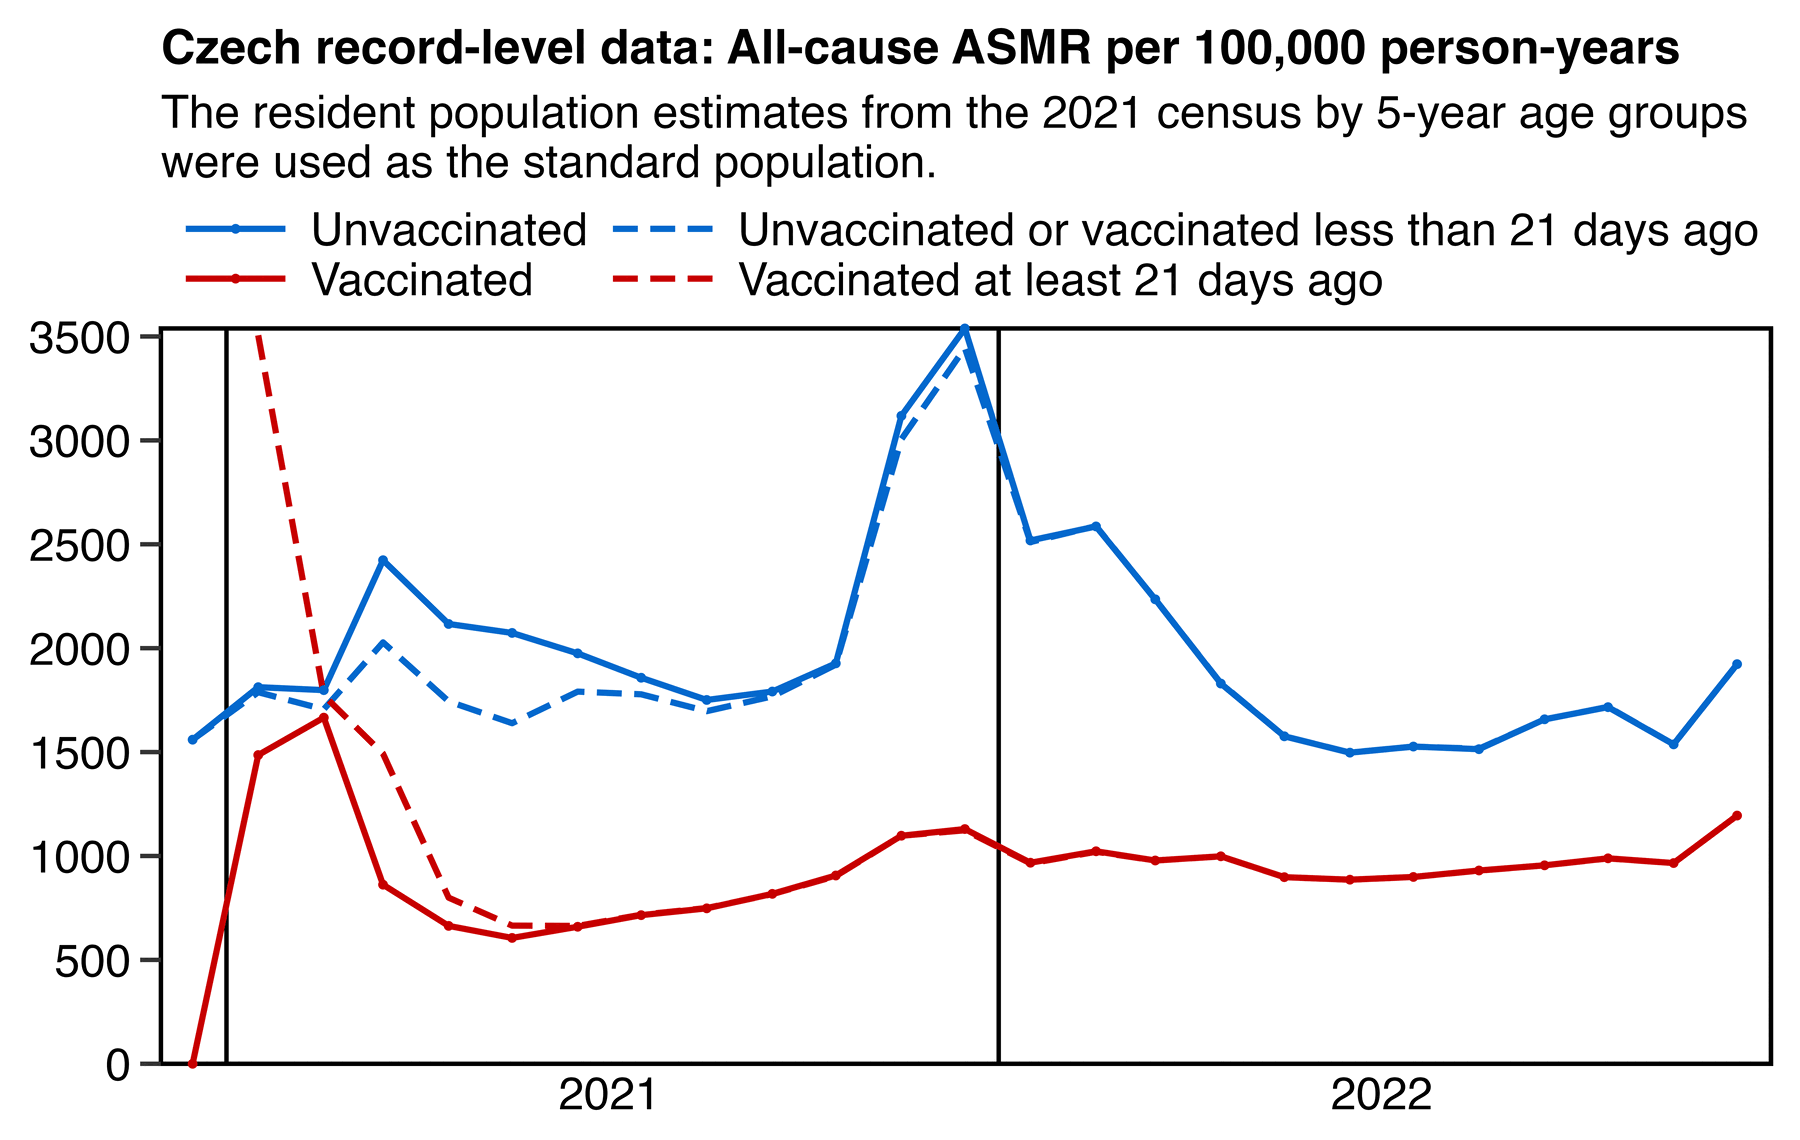
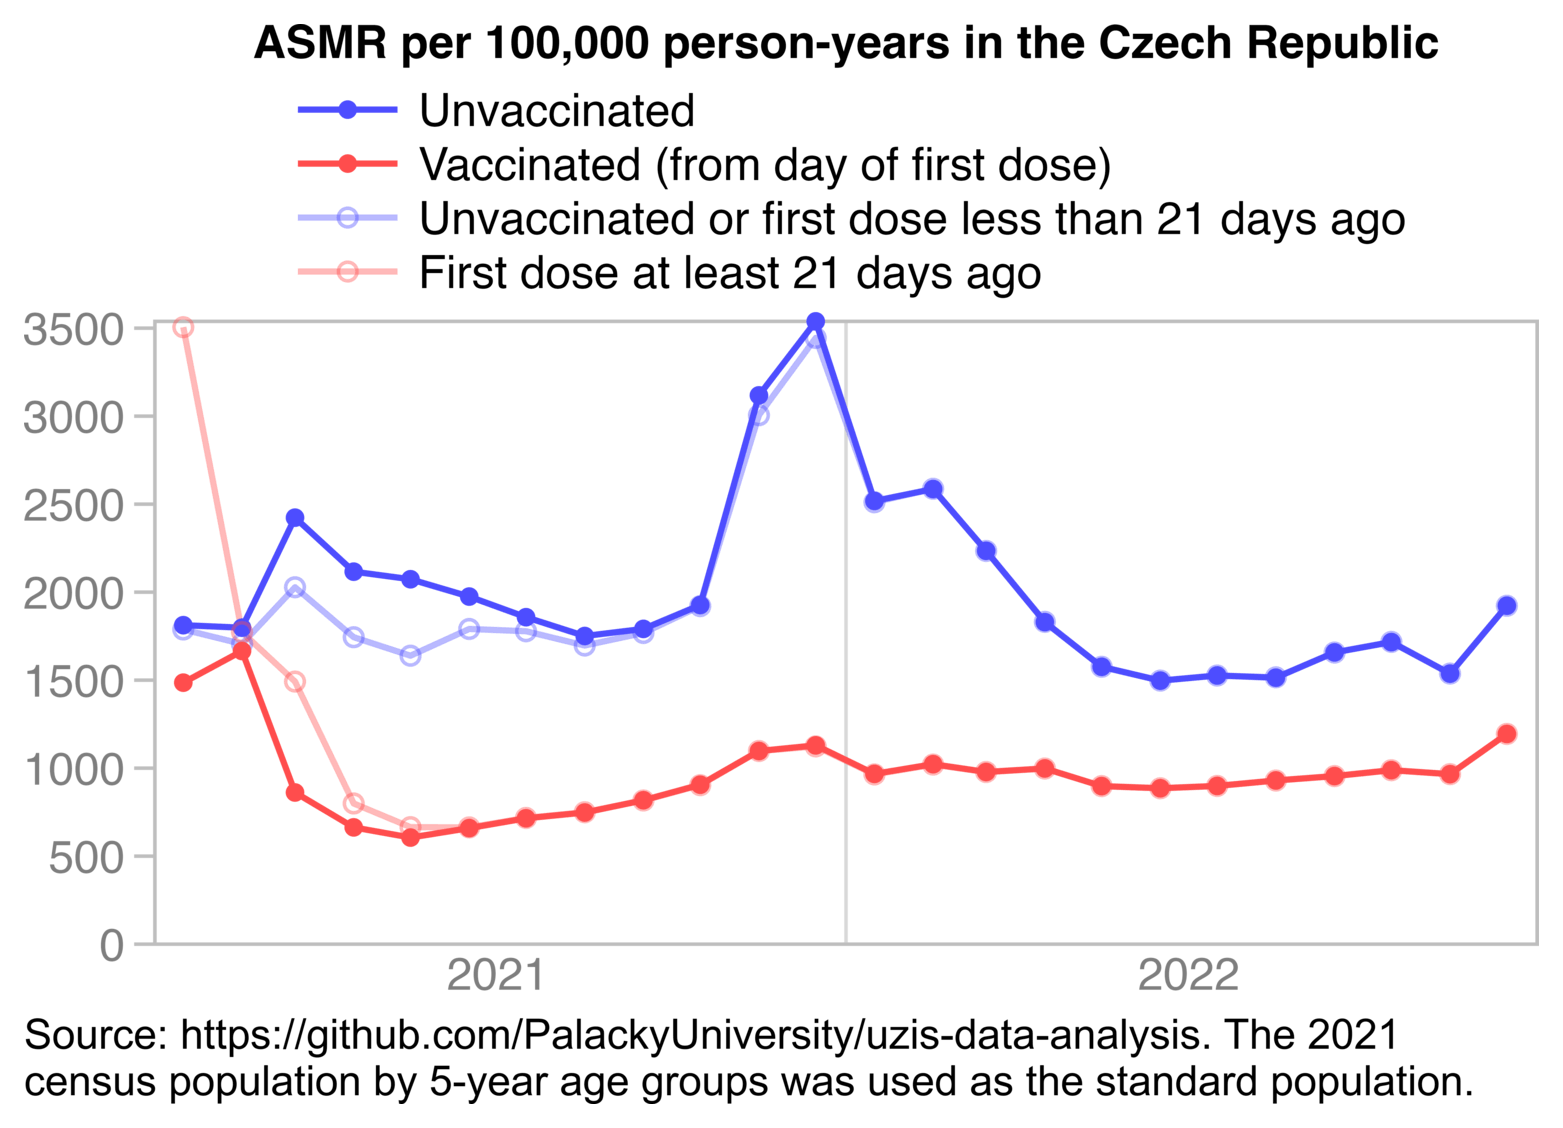
a

diff --git a/czech4.html b/czech4.html
@@ -142,7 +142,7 @@ body>.toc ul{width:100%;box-sizing:border-box}
   -webkit-touch-callout:none}
 </style>
 <title>Czech individual-level mortality data by vaccination status (part 4)</title>
-<h1 id=top>Czech individual-level mortality data by vaccination status (part 4) - <a href=index.html>sars2.net</a></h1><div class=dates>First published 2024-08-08 UTC, last modified 2026-06-08 UTC</div><p>Other parts: <a href=czech.html>czech.<wbr>html</a>, <a href=czech2.html>czech2.<wbr>html</a>, <a href=czech3.html>czech3.<wbr>html</a>. The files about the Rootclaim debate include additional analysis of the Czech data: <a href=rootclaim3.html>rootclaim3.<wbr>html</a>, <a href=rootclaim4.html>rootclaim4.<wbr>html</a>, <a href=rootclaim5.html>rootclaim5.<wbr>html</a>.</p>
+<h1 id=top>Czech individual-level mortality data by vaccination status (part 4) - <a href=index.html>sars2.net</a></h1><div class=dates>First published 2024-08-08 UTC, last modified 2026-11-27 UTC</div><p>Other parts: <a href=czech.html>czech.<wbr>html</a>, <a href=czech2.html>czech2.<wbr>html</a>, <a href=czech3.html>czech3.<wbr>html</a>. The files about the Rootclaim debate include additional analysis of the Czech data: <a href=rootclaim3.html>rootclaim3.<wbr>html</a>, <a href=rootclaim4.html>rootclaim4.<wbr>html</a>, <a href=rootclaim5.html>rootclaim5.<wbr>html</a>.</p>
 <h2><a href=#Contents id=Contents>Contents</a></h2>
 <ul class=toc>
 <li><a href="#Moderna_Pfizer_ratio_by_vaccination_quarter_and_age_group">Moderna-Pfizer ratio by vaccination quarter and age group</a></li>
@@ -1016,73 +1016,68 @@ o[<wbr>order(-<wbr>Pfizer_<wbr>N)][,<wbr>c(<wbr>1,<wbr>2,<wbr>4,<wbr>6,<wbr>3,<w
 <p>In February 2024 the Dutch Central Bureau of Statistics published a dataset for COVID and non-COVID ASMR by vaccination status: <a href=https://www.cbs.nl/nl-nl/longread/rapportages/2024/covid-vaccinatiestatus-en-sterfte/3-resultaten>https://<wbr>www.<wbr>cbs.<wbr>nl/<wbr>nl-<wbr>nl/<wbr>longread/<wbr>rapportages/<wbr>2024/<wbr>covid-<wbr>vaccinatiestatus-<wbr>en-<wbr>sterfte/<wbr>3-<wbr>resultaten</a>. It included one set of data where people were classified as vaccinated immediately after the first dose, and another set of data where people were generally only classified as vaccinated 2 weeks after the second dose <span class="quote">(or 4 weeks after the first dose in the case of vaccine brands like Johnson &amp; Johnson which had only one primary course dose)</span>.</p>
 <p>The classification delay reduced unvaccinated ASMR during the main rollout of the primary course doses from March to July 2021, so it resulted in a big advantage to unvaccinated people. In January and February 2021 the classification delay gave an advantage to vaccinated people because then there was a delay before the vulnerable groups of people were priorized during early rollout were counted as vaccinated, even though there were so few people who had been vaccinated during the first two months of 2021 that they don't have much impact on the total ASMR of vaccinated people: <span class="quote">[<a href=statistic.html#Comparison_of_fully_vaccinated_and_vaccinated_ASMR>statistic.<wbr>html#<wbr>Comparison_<wbr>of_<wbr>fully_<wbr>vaccinated_<wbr>and_<wbr>vaccinated_<wbr>ASMR</a>]</span></p>
 <div>
-<img src=i/czech-cheap-1.webp width=700>
+<img src=i/czech-cheap-1.webp width=640>
 </div>
-<p>Similarly in the Czech record-level data when I classified people as unvaccinated until 3 weeks from the first dose, it gave an advantage to unvaccinated people because it reduced the ASMR of unvaccinated people and it increased the ASMR of vaccinated people:</p>
+<p>Similarly in the Czech record-level data when I classified people as unvaccinated until 3 weeks from the first dose, the classification worked in the favor of unvaccinated people, because it reduced the ASMR of unvaccinated people and increased the ASMR of vaccinated people:</p>
 <div>
-<img src=i/czech-cheap-2.webp width=600>
+<img src=i/czech-cheap-2.webp width=530>
 </div>
 <div class="spoiler">
 <button>
 Show code
 </button>
-<pre>library(<wbr>data.<wbr>table);<wbr>library(<wbr>ggplot2)<wbr>
+<pre>b=fread(<wbr>&quot;<wbr>https://<wbr>sars2.<wbr>net/<wbr>f/<wbr>czbucketskeep.<wbr>csv.<wbr>gz&quot;)[<wbr>dose&lt;<wbr>=1]<wbr>
+std=fread(<wbr>&quot;<wbr>https://<wbr>sars2.<wbr>net/<wbr>f/<wbr>czcensus2021pop.<wbr>csv&quot;)[,.(<wbr>std=sum(<wbr>pop)),.(<wbr>age=pmin(<wbr>age,<wbr>95)%/%<wbr>5*<wbr>5)][,<wbr>std:<wbr>=std/<wbr>sum(<wbr>std)]<wbr>
 
-b=fread(<wbr>&quot;<wbr>http://<wbr>sars2.<wbr>net/<wbr>f/<wbr>czbucketskeep.<wbr>csv.<wbr>gz&quot;)[<wbr>dose&lt;<wbr>=1]<wbr>
-std=fread(<wbr>&quot;<wbr>http://<wbr>sars2.<wbr>net/<wbr>f/<wbr>czcensus2021pop.<wbr>csv&quot;)[,.(<wbr>std=sum(<wbr>pop)),.(<wbr>age=pmin(<wbr>age,<wbr>95)%/%<wbr>5*<wbr>5)][,<wbr>std:<wbr>=std/<wbr>sum(<wbr>std)]<wbr>
-
-p=copy(<wbr>b)[,<wbr>dose:<wbr>=ifelse(<wbr>dose==1,<wbr>&quot;<wbr>Vaccinated&quot;,<wbr>&quot;<wbr>Unvaccinated&quot;)]<wbr>
-p=rbind(<wbr>p,<wbr>copy(<wbr>b)[<wbr>week&lt;<wbr>3,<wbr>dose:<wbr>=0][,<wbr>dose:<wbr>=ifelse(<wbr>dose==1,<wbr>&quot;<wbr>Vaccinated at least 21 days ago&quot;,<wbr>&quot;<wbr>Unvaccinated or vaccinated less than 21 days ago&quot;)])<wbr>
+p=copy(<wbr>b)[,<wbr>dose:<wbr>=ifelse(<wbr>dose==1,<wbr>&quot;<wbr>Vaccinated (from day of first dose)<wbr>&quot;,<wbr>&quot;<wbr>Unvaccinated&quot;)]<wbr>
+p=rbind(<wbr>p,<wbr>copy(<wbr>b)[<wbr>week&lt;<wbr>3,<wbr>dose:<wbr>=0][,<wbr>dose:<wbr>=ifelse(<wbr>dose==1,<wbr>&quot;<wbr>First dose at least 21 days ago&quot;,<wbr>&quot;<wbr>Unvaccinated or first dose less than 21 days ago&quot;)])<wbr>
 
 p=p[,.(<wbr>cmr=sum(<wbr>dead)/<wbr>sum(<wbr>alive)*<wbr>365e5),.(<wbr>dose,<wbr>age=pmin(<wbr>age,<wbr>95)%/%<wbr>5*<wbr>5,<wbr>month)]<wbr>
 p=merge(<wbr>std,<wbr>p)[,.(<wbr>asmr=sum(<wbr>cmr*<wbr>std)),.(<wbr>dose,<wbr>month)]<wbr>
 p[,<wbr>dose:<wbr>=factor(<wbr>dose,<wbr>unique(<wbr>dose))]<wbr>
 
 p[,<wbr>month:<wbr>=as.<wbr>Date(<wbr>paste0(<wbr>month,<wbr>&quot;-<wbr>1&quot;))]<wbr>
-xstart=as.<wbr>Date(<wbr>&quot;<wbr>2020-<wbr>12-<wbr>1&quot;);<wbr>xend=as.<wbr>Date(<wbr>&quot;<wbr>2023-<wbr>1-<wbr>1&quot;)<wbr>
+xstart=as.<wbr>Date(<wbr>&quot;<wbr>2021-<wbr>1-<wbr>1&quot;);<wbr>xend=as.<wbr>Date(<wbr>&quot;<wbr>2023-<wbr>1-<wbr>1&quot;)<wbr>
 p=p[<wbr>month&gt;<wbr>=xstart&amp;<wbr>month&lt;<wbr>=xend]<wbr>
 
 xbreak=seq(<wbr>as.<wbr>Date(<wbr>&quot;<wbr>2021-<wbr>7-<wbr>1&quot;),<wbr>xend,<wbr>&quot;<wbr>year&quot;);<wbr>xlab=year(<wbr>xbreak)<wbr>
 ystep=500;<wbr>ystart=0;<wbr>yend=max(<wbr>p$<wbr>asmr,<wbr>na.<wbr>rm=T);<wbr>ybreak=seq(<wbr>ystart,<wbr>yend,<wbr>ystep)<wbr>
 
 ggplot(<wbr>p,<wbr>aes(<wbr>x=month+<wbr>15,<wbr>y=asmr))+<wbr>
-geom_<wbr>vline(<wbr>xintercept=seq(<wbr>as.<wbr>Date(<wbr>&quot;<wbr>2021-<wbr>1-<wbr>1&quot;),<wbr>as.<wbr>Date(<wbr>&quot;<wbr>2023-<wbr>1-<wbr>1&quot;),<wbr>&quot;<wbr>year&quot;),<wbr>linewidth=.<wbr>5)+<wbr>
-geom_<wbr>vline(<wbr>xintercept=c(<wbr>xstart,<wbr>xend),<wbr>linewidth=.<wbr>5,<wbr>lineend=&quot;<wbr>square&quot;)+<wbr>
-geom_<wbr>hline(<wbr>yintercept=c(<wbr>ystart,<wbr>yend),<wbr>linewidth=.<wbr>5,<wbr>lineend=&quot;<wbr>square&quot;)+<wbr>
-geom_<wbr>line(<wbr>aes(<wbr>color=dose,<wbr>linetype=dose),<wbr>linewidth=.<wbr>7)+<wbr>
-geom_<wbr>point(<wbr>aes(<wbr>color=dose,<wbr>alpha=dose),<wbr>stroke=0,<wbr>size=1.<wbr>1)+<wbr>
-labs(<wbr>x=NULL,<wbr>y=NULL,<wbr>title=&quot;<wbr>Czech record-<wbr>level data:<wbr> All-<wbr>cause ASMR per 100,<wbr>000 person-<wbr>years&quot;,<wbr>subtitle=&quot;<wbr>The resident population estimates from the 2021 census by 5-<wbr>year age groups were used as the standard population.<wbr>&quot;|<wbr>&gt;<wbr>stringr::<wbr>str_<wbr>wrap(<wbr>78))+<wbr>
+geom_<wbr>vline(<wbr>xintercept=seq(<wbr>as.<wbr>Date(<wbr>&quot;<wbr>2021-<wbr>1-<wbr>1&quot;),<wbr>as.<wbr>Date(<wbr>&quot;<wbr>2023-<wbr>1-<wbr>1&quot;),<wbr>&quot;<wbr>year&quot;),<wbr>linewidth=.<wbr>4,<wbr>color=&quot;<wbr>gray85&quot;)+<wbr>
+annotate(<wbr>&quot;<wbr>rect&quot;,<wbr>xmin=xstart,<wbr>xmax=xend,<wbr>ymin=ystart,<wbr>ymax=yend,<wbr>linewidth=.<wbr>4,<wbr>lineend=&quot;<wbr>square&quot;,<wbr>linejoin=&quot;<wbr>mitre&quot;,<wbr>fill=NA,<wbr>color=&quot;<wbr>gray75&quot;)+<wbr>
+geom_<wbr>line(<wbr>aes(<wbr>color=dose,<wbr>alpha=dose),<wbr>linewidth=.<wbr>7)+<wbr>
+geom_<wbr>point(<wbr>aes(<wbr>color=dose,<wbr>alpha=dose,<wbr>shape=dose),<wbr>stroke=.<wbr>6,<wbr>size=1.<wbr>7)+<wbr>
+labs(<wbr>x=NULL,<wbr>y=NULL,<wbr>title=&quot;<wbr>ASMR per 100,<wbr>000 person-<wbr>years in the Czech Republic&quot;)+<wbr>
 scale_<wbr>x_<wbr>date(<wbr>limits=c(<wbr>xstart,<wbr>xend),<wbr>breaks=xbreak,<wbr>labels=xlab)+<wbr>
 scale_<wbr>y_<wbr>continuous(<wbr>limits=c(<wbr>ystart,<wbr>yend),<wbr>breaks=ybreak)+<wbr>
-scale_<wbr>color_<wbr>manual(<wbr>values=hsv(<wbr>c(<wbr>21,<wbr>0,<wbr>21,<wbr>0)/<wbr>36,<wbr>1,.<wbr>8))+<wbr>
-scale_<wbr>linetype_<wbr>manual(<wbr>values=c(<wbr>&quot;<wbr>solid&quot;,<wbr>&quot;<wbr>solid&quot;,<wbr>&quot;<wbr>42&quot;,<wbr>&quot;<wbr>42&quot;))+<wbr>
-scale_<wbr>alpha_<wbr>manual(<wbr>values=c(<wbr>1,<wbr>1,<wbr>0,<wbr>0))+<wbr>
+scale_<wbr>color_<wbr>manual(<wbr>values=hsv(<wbr>c(<wbr>2,<wbr>0,<wbr>2,<wbr>0)/<wbr>3,.<wbr>7,<wbr>1))+<wbr>
+scale_<wbr>shape_<wbr>manual(<wbr>values=c(<wbr>16,<wbr>16,<wbr>1,<wbr>1))+<wbr>
+scale_<wbr>alpha_<wbr>manual(<wbr>values=c(<wbr>1,<wbr>1,.<wbr>4,.<wbr>4))+<wbr>
 coord_<wbr>cartesian(<wbr>clip=&quot;<wbr>off&quot;,<wbr>expand=F)+<wbr>
-guides(<wbr>color=guide_<wbr>legend(<wbr>ncol=2,<wbr>byrow=F))+<wbr>
-theme(<wbr>axis.<wbr>text=element_<wbr>text(<wbr>size=11,<wbr>color=&quot;<wbr>black&quot;),<wbr>
+guides(<wbr>color=guide_<wbr>legend(<wbr>ncol=1,<wbr>byrow=F))+<wbr>
+theme(<wbr>axis.<wbr>text=element_<wbr>text(<wbr>size=11,<wbr>color=&quot;<wbr>gray50&quot;),<wbr>
   axis.<wbr>text.<wbr>x=element_<wbr>text(<wbr>margin=margin(<wbr>3)),<wbr>
-  axis.<wbr>ticks=element_<wbr>line(<wbr>linewidth=.<wbr>5),<wbr>
+  axis.<wbr>ticks=element_<wbr>line(<wbr>linewidth=.<wbr>4,<wbr>color=&quot;<wbr>gray75&quot;),<wbr>
   axis.<wbr>ticks.<wbr>length=unit(<wbr>5,<wbr>&quot;<wbr>pt&quot;),<wbr>
   axis.<wbr>ticks.<wbr>length.<wbr>x=unit(<wbr>0,<wbr>&quot;<wbr>pt&quot;),<wbr>
   legend.<wbr>background=element_<wbr>blank(),<wbr>
   legend.<wbr>box.<wbr>spacing=unit(<wbr>0,<wbr>&quot;<wbr>pt&quot;),<wbr>
-  legend.<wbr>justification=c(<wbr>0,<wbr>0),<wbr>
   legend.<wbr>key=element_<wbr>blank(),<wbr>
   legend.<wbr>key.<wbr>height=unit(<wbr>12,<wbr>&quot;<wbr>pt&quot;),<wbr>
+  legend.<wbr>key.<wbr>spacing.<wbr>x=unit(<wbr>2,<wbr>&quot;<wbr>pt&quot;),<wbr>
+  legend.<wbr>key.<wbr>spacing.<wbr>y=unit(<wbr>1,<wbr>&quot;<wbr>pt&quot;),<wbr>
   legend.<wbr>key.<wbr>width=unit(<wbr>30,<wbr>&quot;<wbr>pt&quot;),<wbr>
   legend.<wbr>margin=margin(,,<wbr>6),<wbr>
   legend.<wbr>position=&quot;<wbr>top&quot;,<wbr>
-  legend.<wbr>spacing.<wbr>x=unit(<wbr>3,<wbr>&quot;<wbr>pt&quot;),<wbr>
-  legend.<wbr>spacing.<wbr>y=unit(<wbr>0,<wbr>&quot;<wbr>pt&quot;),<wbr>
-  legend.<wbr>text=element_<wbr>text(<wbr>size=11),<wbr>
+  legend.<wbr>text=element_<wbr>text(<wbr>size=11,<wbr>margin=margin(,,,<wbr>2)),<wbr>
   legend.<wbr>title=element_<wbr>blank(),<wbr>
   panel.<wbr>background=element_<wbr>blank(),<wbr>
   panel.<wbr>grid=element_<wbr>blank(),<wbr>
-  plot.<wbr>margin=margin(<wbr>7,<wbr>7,<wbr>5,<wbr>7),<wbr>
-  plot.<wbr>subtitle=element_<wbr>text(<wbr>size=11,<wbr>margin=margin(,,<wbr>4)),<wbr>
-  plot.<wbr>title=element_<wbr>text(<wbr>size=11.<wbr>5,<wbr>face=&quot;<wbr>bold&quot;,<wbr>margin=margin(,,<wbr>5)))<wbr>
-ggsave(<wbr>&quot;<wbr>1.<wbr>png&quot;,<wbr>width=6,<wbr>height=3.<wbr>8,<wbr>dpi=300*<wbr>4)<wbr>
-system(<wbr>&quot;<wbr>mogrify -resize 25%<wbr> -colors 256 1.<wbr>png&quot;)<wbr></pre>
+  plot.<wbr>title=element_<wbr>text(<wbr>size=11,<wbr>face=&quot;<wbr>bold&quot;,<wbr>margin=margin(,,<wbr>4),<wbr>hjust=.<wbr>5))<wbr>
+ggsave(<wbr>&quot;<wbr>1.<wbr>png&quot;,<wbr>width=5.<wbr>2,<wbr>height=3.<wbr>4,<wbr>dpi=300*<wbr>4)<wbr>
+sub=&quot;<wbr>Source:<wbr> https://<wbr>github.<wbr>com/<wbr>PalackyUniversity/<wbr>uzis-<wbr>data-<wbr>analysis.<wbr> The 2021 census population by 5-<wbr>year age groups was used as the standard population.<wbr>&quot;<wbr>
+system(<wbr>paste0(<wbr>&quot;<wbr>mogrify -trim 1.<wbr>png;<wbr>magick 1.<wbr>png \\(<wbr> -size `identify -format %w 1.<wbr>png`<wbr>x -font Arial -interline-<wbr>spacing -3 -pointsize $[<wbr>43*<wbr>4]<wbr> caption:<wbr>&#39;<wbr>&quot;,<wbr>gsub(<wbr>&quot;<wbr>&#39;<wbr>&quot;,<wbr>&quot;<wbr>&#39;\\\\<wbr>&#39;<wbr>&#39;<wbr>&quot;,<wbr>sub),<wbr>&quot;<wbr>&#39;<wbr> -splice x80 \\)<wbr> -append -resize 25%<wbr> -bordercolor white -border 24 -dither none -colors 256 1.<wbr>png&quot;))<wbr></pre>
 </div>
 <p>And in the English ONS data when I classified people as unvaccinated until 3 weeks from the first dose, it similarly gave a big advantage to unvaccinated people, because it reduced unvaccinated CMR in early 2021 when the first dose was rolled out <span class="quote">(<a href=stat.html#Plot_CMR_by_age_group_when_people_are_classified_as_unvaccinated_until_3_weeks_from_vaccination>R code</a>)</span>:</p>
 <div>
